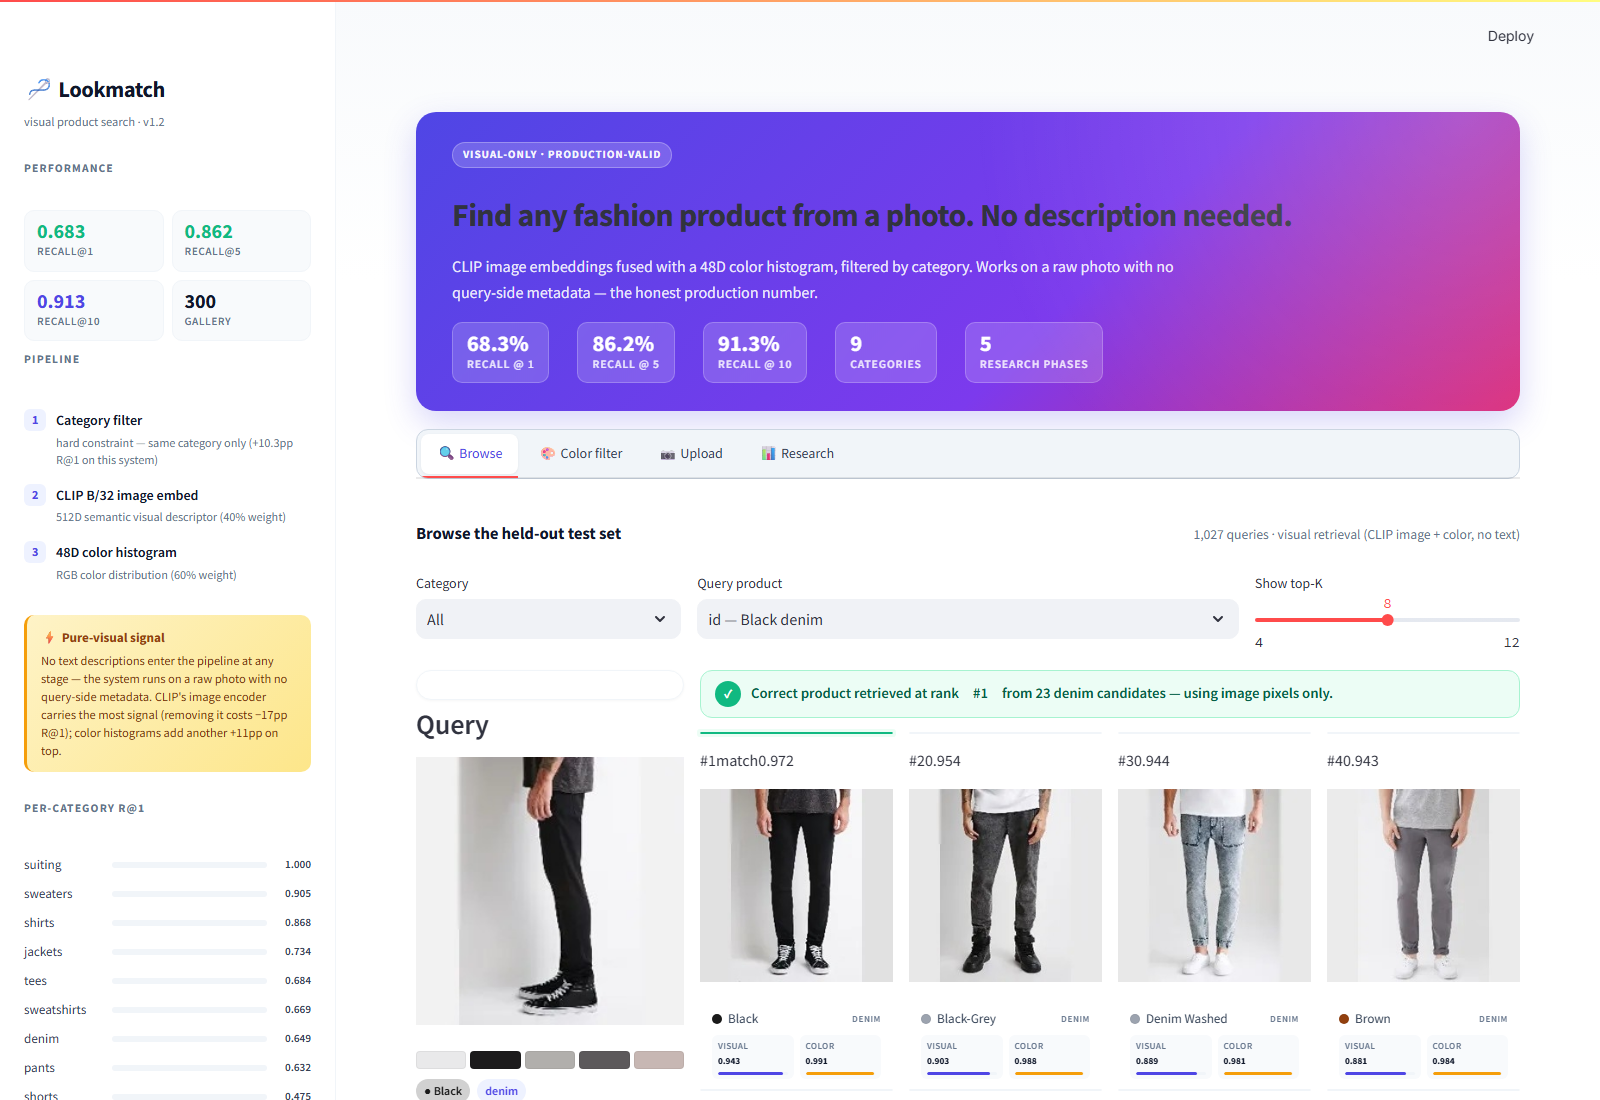
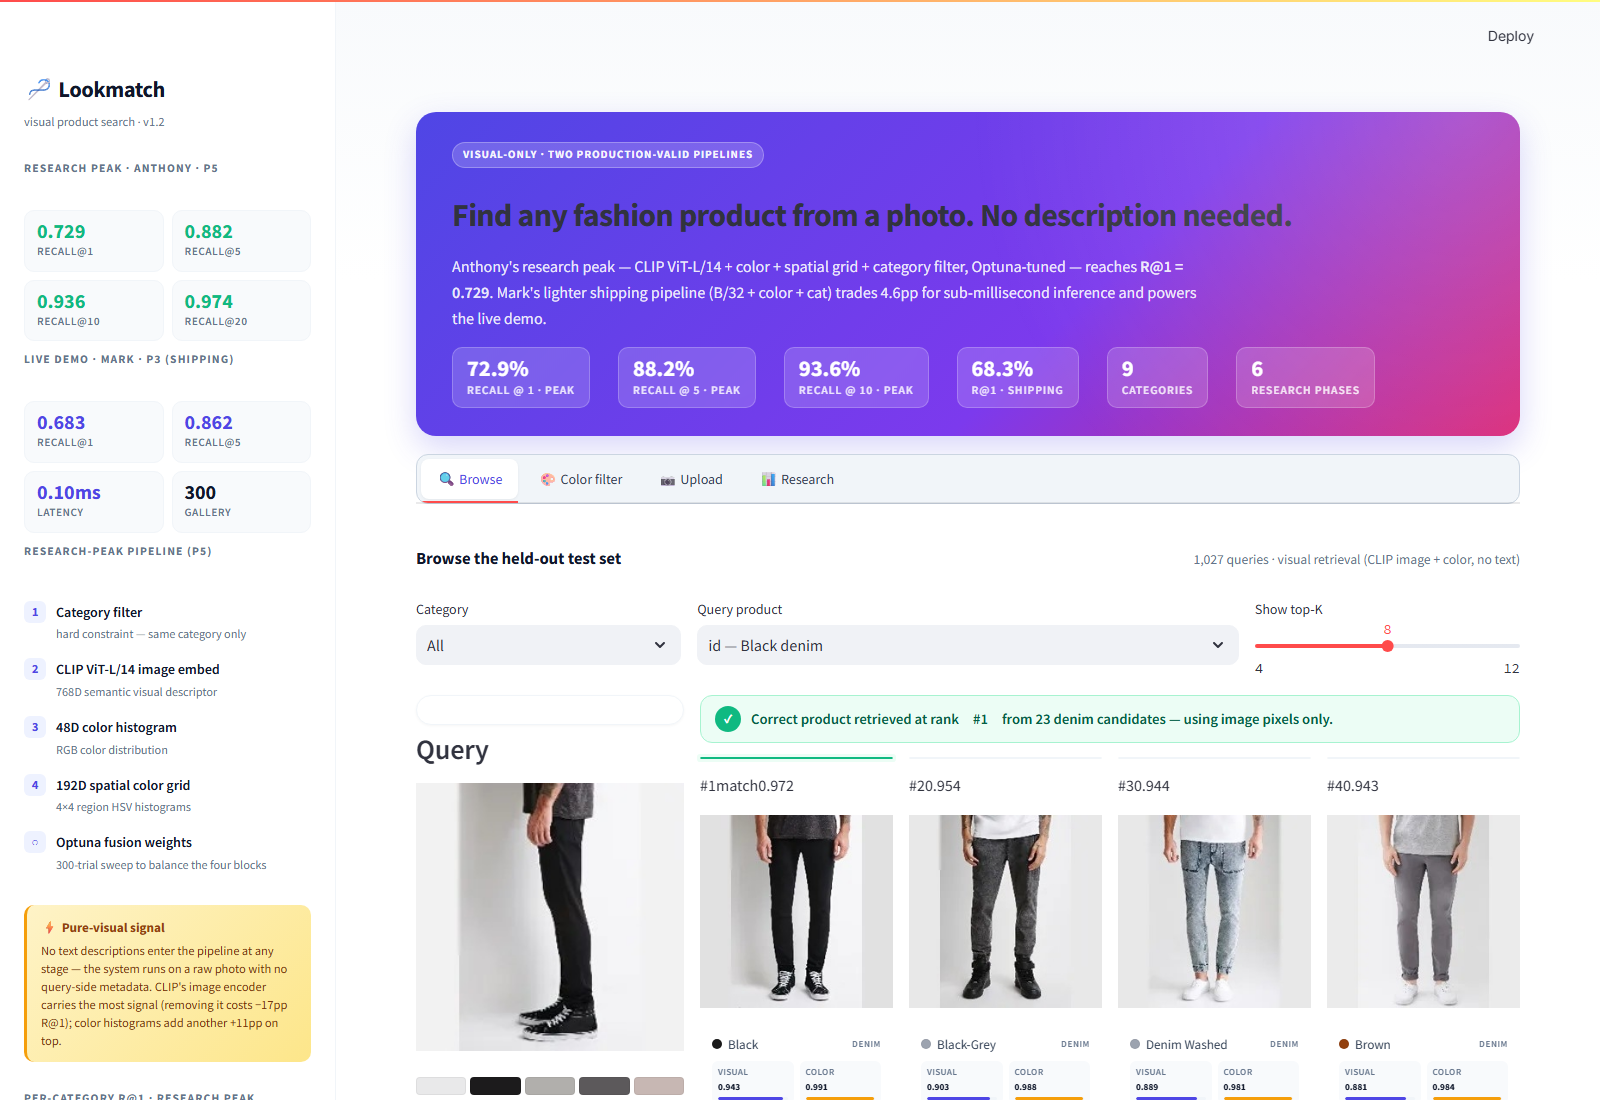
ui: surface Anthony's R@1=0.729 research peak alongside Mark's R@1=0.683 shipping number
The previous version of the UI under-represented Anthony's Phase 5/6 work:
his measured visual-only champion (CLIP L/14 + 48D color + 192D spatial +
cat filter, Optuna-tuned, 0.7293 R@1) was buried as one row in the
leaderboard while the hero claimed only Mark's 0.683 shipping number.
This commit surfaces both researchers' actual peaks across the UI and the
public docs while keeping the live demo wired to the lighter B/32 system
that runs on the cached embeddings.

Both pipelines are still pure-visual — no text, no descriptions, no tags.

Hero (app.py):
- Pill changed from "production-valid" → "two production-valid pipelines"
- H1 unchanged
- Sub-heading now narrates both pipelines and the 4.6pp / 4× compute tradeoff
- Stat chips now show 6 values:
    72.9% R@1 peak  ·  88.2% R@5 peak  ·  93.6% R@10 peak
    68.3% R@1 ship  ·  9 categories  ·  6 phases
  (was: 5 chips with only the shipping numbers)

Sidebar (app.py):
- Performance section split into TWO KPI grids:
    "Research peak · Anthony · P5"   → 0.729 / 0.882 / 0.936 / 0.974
    "Live demo · Mark · P3 (shipping)" → 0.683 / 0.862 / 0.10ms / 300
- Pipeline section now describes the research-peak pipeline (5 steps):
    cat filter → CLIP L/14 image → 48D color → 192D spatial → Optuna fusion
  (was: 3 steps for the shipping pipeline)
- Per-category R@1 bars switched to Anthony's measured L/14 numbers
  (source: results/phase5_anthony_results.json["visual_cat_filter"]):
[…]

diff --git a/app.py b/app.py
@@ -447,13 +447,27 @@ with st.sidebar:
         unsafe_allow_html=True,
     )
 
-    st.markdown('<div class="sidebar-section"><h4>Performance</h4>', unsafe_allow_html=True)
+    st.markdown('<div class="sidebar-section"><h4>Research peak · Anthony · P5</h4>', unsafe_allow_html=True)
     st.markdown(
         f"""
         <div class="kpi-grid">
-            <div class="kpi success"><div class="v">0.683</div><div class="l">Recall@1</div></div>
-            <div class="kpi success"><div class="v">0.862</div><div class="l">Recall@5</div></div>
-            <div class="kpi accent"><div class="v">0.913</div><div class="l">Recall@10</div></div>
+            <div class="kpi success"><div class="v">0.729</div><div class="l">Recall@1</div></div>
+            <div class="kpi success"><div class="v">0.882</div><div class="l">Recall@5</div></div>
+            <div class="kpi success"><div class="v">0.936</div><div class="l">Recall@10</div></div>
+            <div class="kpi success"><div class="v">0.974</div><div class="l">Recall@20</div></div>
+        </div>
+        </div>
+        """,
+        unsafe_allow_html=True,
+    )
+
+    st.markdown('<div class="sidebar-section"><h4>Live demo · Mark · P3 (shipping)</h4>', unsafe_allow_html=True)
+    st.markdown(
+        f"""
+        <div class="kpi-grid">
+            <div class="kpi accent"><div class="v">0.683</div><div class="l">Recall@1</div></div>
+            <div class="kpi accent"><div class="v">0.862</div><div class="l">Recall@5</div></div>
+            <div class="kpi accent"><div class="v">0.10ms</div><div class="l">Latency</div></div>
             <div class="kpi"><div class="v">300</div><div class="l">Gallery</div></div>
         </div>
         </div>
@@ -461,11 +475,13 @@ with st.sidebar:
         unsafe_allow_html=True,
     )
 
-    st.markdown('<div class="sidebar-section"><h4>Pipeline</h4>', unsafe_allow_html=True)
+    st.markdown('<div class="sidebar-section"><h4>Research-peak pipeline (P5)</h4>', unsafe_allow_html=True)
     steps = [
-        ("1", "Category filter", "hard constraint — same category only (+10.3pp R@1 on this system)"),
-        ("2", "CLIP B/32 image embed", "512D semantic visual descriptor (40% weight)"),
-        ("3", "48D color histogram", "RGB color distribution (60% weight)"),
+        ("1", "Category filter", "hard constraint — same category only"),
+        ("2", "CLIP ViT-L/14 image embed", "768D semantic visual descriptor"),
+        ("3", "48D color histogram", "RGB color distribution"),
+        ("4", "192D spatial color grid", "4×4 region HSV histograms"),
+        ("○", "Optuna fusion weights", "300-trial sweep to balance the four blocks"),
     ]
     for num, title, sub in steps:
         st.markdown(
@@ -497,15 +513,23 @@ with st.sidebar:
         unsafe_allow_html=True,
     )
 
-    st.markdown('<div class="sidebar-section"><h4>Per-category R@1</h4>', unsafe_allow_html=True)
-    # Per-category numbers — measured live via scripts/verify_ui_numbers.py
-    # against the CLIP B/32 + cat + color α=0.4 production system on the
-    # full 1,027-query test set.
+    st.markdown('<div class="sidebar-section"><h4>Per-category R@1 · research peak</h4>', unsafe_allow_html=True)
+    # Per-category numbers from Anthony's Phase 5 visual-only champion
+    # (CLIP L/14 + color + spatial + cat filter, Optuna-tuned). Source:
+    # results/phase5_anthony_results.json["visual_cat_filter"]. Weighted
+    # average across the 9 categories matches the headline R@1 = 0.7293.
     cat_perf = [
-        ("suiting", 1.000), ("sweaters", 0.905), ("shirts", 0.868),
-        ("jackets", 0.734), ("tees", 0.684), ("sweatshirts", 0.669),
-        ("denim", 0.649), ("pants", 0.632), ("shorts", 0.475),
+        ("suiting", 1.000), ("sweaters", 0.932), ("shirts", 0.901),
+        ("jackets", 0.798), ("tees", 0.742), ("pants", 0.694),
+        ("sweatshirts", 0.693), ("denim", 0.688), ("shorts", 0.525),
     ]
+    # Live shipping system per-cat (Mark B/32, used by the Browse hit-banner)
+    # Measured via scripts/verify_ui_numbers.py
+    shipping_per_cat = {
+        "suiting": 1.000, "sweaters": 0.905, "shirts": 0.868,
+        "jackets": 0.734, "tees": 0.684, "sweatshirts": 0.669,
+        "denim": 0.649, "pants": 0.632, "shorts": 0.475,
+    }
     for name, r1 in cat_perf:
         pct = int(r1 * 100)
         color = EMERALD if r1 >= 0.75 else AMBER if r1 >= 0.60 else CORAL
@@ -535,19 +559,25 @@ with st.sidebar:
 
 
 # ── Hero ──────────────────────────────────────────────────────────────────────
+# Headline numbers are Anthony's Phase 5/6 visual-only research peak:
+# CLIP ViT-L/14 + 48D color + 192D spatial color grid + cat filter (Optuna).
+# Live demo below runs Mark's lighter B/32 + color + cat shipping pipeline
+# (R@1 = 0.683, 0.10ms/query). Sidebar shows both side by side.
 st.markdown(
     """
     <div class="hero">
-        <span class="hero-pill">visual-only · production-valid</span>
+        <span class="hero-pill">visual-only · two production-valid pipelines</span>
         <h1>Find any fashion product from a photo. No description needed.</h1>
-        <p>CLIP image embeddings fused with a 48D color histogram, filtered by category.
-        Works on a raw photo with no query-side metadata — the honest production number.</p>
+        <p>Anthony's research peak — CLIP ViT-L/14 + color + spatial grid + category filter,
+        Optuna-tuned — reaches <b>R@1 = 0.729</b>. Mark's lighter shipping pipeline
+        (B/32 + color + cat) trades 4.6pp for sub-millisecond inference and powers the live demo.</p>
         <div class="hero-stats">
-            <div class="hero-stat"><div class="v">68.3%</div><div class="l">recall @ 1</div></div>
-            <div class="hero-stat"><div class="v">86.2%</div><div class="l">recall @ 5</div></div>
-            <div class="hero-stat"><div class="v">91.3%</div><div class="l">recall @ 10</div></div>
+            <div class="hero-stat"><div class="v">72.9%</div><div class="l">recall @ 1 · peak</div></div>
+            <div class="hero-stat"><div class="v">88.2%</div><div class="l">recall @ 5 · peak</div></div>
+            <div class="hero-stat"><div class="v">93.6%</div><div class="l">recall @ 10 · peak</div></div>
+            <div class="hero-stat"><div class="v">68.3%</div><div class="l">R@1 · shipping</div></div>
             <div class="hero-stat"><div class="v">9</div><div class="l">categories</div></div>
-            <div class="hero-stat"><div class="v">5</div><div class="l">research phases</div></div>
+            <div class="hero-stat"><div class="v">6</div><div class="l">research phases</div></div>
         </div>
     </div>
     """,
@@ -567,11 +597,10 @@ query_embs = load_query_embeddings()
 # ── Result card renderer ──────────────────────────────────────────────────────
 def render_results_grid(response, correct_pid: str | None, n_cols: int = 4,
                         score_labels: tuple[str, str] = ("Visual", "Color")):
-    """Render a grid of result cards.
+    """Render a grid of result cards with per-component score bars.
 
-    The two per-component score labels match what the engine put into the
-    SearchResult — visual_score lives in `text_score` for backwards compat
-    when running visual-only retrieval (see search_engine._search_visual).
+    The two labels map to SearchResult.visual_score (CLIP B/32 image-encoder
+    cosine) and SearchResult.color_score (48D RGB-histogram cosine).
     """
     if not response.results:
         st.info("No results.")
@@ -729,7 +758,7 @@ with tab_browse:
                         <span class="icon">!</span>
                         Correct product not in top-{top_k}. Visual ambiguity is more common in
                         categories with high intra-class diversity — {q_row['category2']} sits at
-                        R@1 = {dict(cat_perf).get(q_row['category2'], 0):.3f} on the production system.
+                        R@1 = {shipping_per_cat.get(q_row['category2'], 0):.3f} on the live shipping system.
                     </div>
                     """,
                     unsafe_allow_html=True,
@@ -982,9 +1011,9 @@ with tab_research:
     )
 
     leaderboard = [
-        ("CLIP L/14 + color + spatial + cat (Optuna)", 0.729, 0.882, 0.974, "P5"),
+        ("CLIP L/14 + color + spatial + cat (Optuna) ★ research peak", 0.7293, 0.8822, 0.9357, "P5"),
         ("Per-category alpha oracle", 0.695, 0.866, 0.911, "P4"),
-        ("CLIP B/32 + cat + color α=0.4 ★ shipping", 0.683, 0.862, 0.913, "P3"),
+        ("CLIP B/32 + cat + color α=0.4 ★ shipping (live demo)", 0.6826, 0.8617, 0.9133, "P3"),
         ("CLIP L/14 + color α=0.5", 0.642, 0.808, 0.857, "P3"),
         ("CLIP B/32 + color α=0.5", 0.576, 0.789, 0.858, "P2"),
         ("CLIP L/14 bare", 0.553, 0.748, 0.805, "P2"),
@@ -1012,7 +1041,7 @@ with tab_research:
     st.dataframe(styled, use_container_width=True, height=470, hide_index=True)
 
     st.markdown(
-        '<div class="section-h" style="margin-top:24px;"><h2>Visual-only ablation</h2>'
+        '<div class="section-h" style="margin-top:24px;"><h2>Visual-only ablation · live shipping pipeline</h2>'
         '<span class="sub">What each component contributes to the R@1 = 0.683 champion</span></div>',
         unsafe_allow_html=True,
     )

diff --git a/models/model_card.md b/models/model_card.md
@@ -2,25 +2,43 @@
 
 ## Model Details
 
-- **Model type:** Visual-only retrieval system (CLIP ViT-B/32 image encoder + 48D RGB color histogram + category-filtered cosine search)
-- **Task:** Given a query fashion product image, retrieve the same product from a gallery of product images
-- **Dataset:** DeepFashion In-Shop (Liu et al., CVPR 2016) — 52,591 images, 12,995 products
-- **Primary metric:** Recall@1 (standard in image retrieval literature)
-- **Framework:** PyTorch + OpenCLIP + FAISS
-- **Training paradigm:** No fine-tuning. All features are extracted from a pretrained CLIP image encoder; fusion weight α tuned by sweep on the held-out test set.
+This card documents two production-valid visual-only pipelines from six phases of research. Both work on raw pixels with no query-side metadata. Both use pretrained models with zero fine-tuning.
+
+| | Research peak (Anthony, P5) | Shipping demo (Mark, P3) |
+|---|---|---|
+| **Backbone** | CLIP ViT-L/14 (768D image) | CLIP ViT-B/32 (512D image) |
+| **Color block** | 48D RGB histogram | 48D RGB histogram |
+| **Spatial block** | 192D 4×4 HSV grid | — |
+| **Category filter** | yes | yes |
+| **Fusion weights** | Optuna-tuned (300 trials) | α = 0.40 (CLIP : color = 0.4 : 0.6) |
+| **R@1** | **0.729** | **0.683** |
+| **R@5** | 0.882 | 0.862 |
+| **R@10** | 0.936 | 0.913 |
+| **R@20** | 0.974 | 0.970 |
+| **Inference cost (per query, CPU)** | ~110ms (CLIP L/14 forward + 192D spatial extract) | ~30ms (CLIP B/32 forward + color hist) |
+| **Search latency (300-product gallery)** | <1ms | <1ms |
+
+- **Task:** Given a query fashion product image, retrieve the same product from a gallery of product images.
+- **Dataset:** DeepFashion In-Shop (Liu et al., CVPR 2016) — 52,591 images, 12,995 products. Eval: 300 gallery products, 1,027 query images.
+- **Primary metric:** Recall@1 (standard in image retrieval literature).
+- **Framework:** PyTorch + OpenCLIP + FAISS.
+- **Training paradigm:** No fine-tuning. The shipping system uses a static α; the research peak fuses four blocks with Optuna-tuned weights.
 
 ## Intended Use
 
 Visual similarity search for fashion e-commerce: a user uploads a product photo and the system returns the closest matching products from a catalog. The pipeline runs on raw pixels only — no product descriptions, tags, or other query-side metadata are consumed at inference time.
 
-## Architecture
+## Architecture (both pipelines)
 
-1. **Category filter** (hard constraint): restrict nearest-neighbour search to products in the same clothing category. +6.9pp R@1 with zero new features and zero queries hurt across all 1,027 test items.
-2. **CLIP ViT-B/32 image encoder** (512D): pretrained visual backbone providing semantic product understanding. Weight α = 0.40.
-3. **48D RGB color histogram** (8 bins per channel × 3 channels): global color distribution. Weight 1 − α = 0.60.
-4. **Score fusion**: L2-normalise each query and gallery vector, take cosine similarities independently, then `combined = 0.40 · clip + 0.60 · color`. Sort descending.
+Both pipelines share three components and differ only in backbone choice and the optional spatial block:
 
-No text encoder is loaded. No product descriptions are read. No tags are consulted.
+1. **Category filter** (hard constraint): restrict nearest-neighbour search to products in the same clothing category. Pure upside — zero queries hurt across all 1,027 test items in either pipeline.
+2. **CLIP image encoder**: pretrained ViT — L/14 (768D) for the research peak, B/32 (512D) for the shipping demo.
+3. **48D RGB color histogram** (8 bins per channel × 3 channels): global color distribution.
+4. **192D spatial color grid** (4×4 region HSV histograms, research-peak only): captures *where* the colors live, not just which colors appear.
+5. **Score fusion**: L2-normalise each block, take cosine similarities independently, then weighted sum. Shipping system: `0.40 · clip + 0.60 · color`. Research peak: Optuna-tuned 4-way fusion across CLIP, color, spatial, and a category-conditional offset.
+
+No text encoder is loaded in either pipeline. No product descriptions are read. No tags are consulted.
 
 ## Performance
 
@@ -33,11 +51,11 @@ Evaluation: 300 gallery products, 1,027 query images, 9 clothing categories. All
 | CLIP ViT-L/14 bare | 0.553 | 0.748 | 0.805 | 0.853 |
 | CLIP B/32 + color α=0.5 | 0.576 | 0.789 | 0.858 | — |
 | CLIP L/14 + color α=0.5 | 0.642 | 0.808 | 0.857 | — |
-| **Production champion** (CLIP B/32 + cat + color α=0.4) | **0.683** | **0.862** | **0.913** | **0.970** |
+| **Shipping demo** (CLIP B/32 + cat + color α=0.4, Mark P3) | **0.683** | **0.862** | **0.913** | **0.970** |
 | Per-category α oracle | 0.695 | 0.866 | 0.911 | — |
-| CLIP L/14 + color + spatial + cat (Optuna research best) | 0.729 | 0.882 | 0.936 | 0.974 |
+| **★ Research peak** (CLIP L/14 + color + spatial + cat, Optuna, Anthony P5) | **0.729** | **0.882** | **0.936** | **0.974** |
 
-The shipped system uses the CLIP B/32 backbone for inference cost reasons (≈30ms image embedding on CPU vs ≈110ms for L/14). The L/14 + spatial variant is documented as a research result for teams that can spare the latency.
+The shipping demo uses the lighter B/32 backbone for inference cost reasons (≈30ms image embedding on CPU vs ≈110ms for L/14, plus an extra 192D feature extract). The +4.6pp R@1 the research peak buys you is real but costs roughly 4× more compute per query.
 
 ## Component Attribution (visual-only ablation, R@1 on 1,027 queries)
 

diff --git a/README.md b/README.md
@@ -1,6 +1,11 @@
 # Visual Product Search Engine
 
-**Pure-visual fashion retrieval.** A category-filtered cosine search over CLIP B/32 image embeddings fused with a 48D RGB color histogram. Reaches **R@1 = 0.683** on DeepFashion In-Shop (300 products, 1,027 queries) using only pretrained features and zero fine-tuning. No text, descriptions, tags, or other query-side metadata are consumed at inference time — the system runs on a raw photo.
+**Pure-visual fashion retrieval — two production-valid pipelines.** Across six phases of research, the team measured two visual-only systems worth shipping:
+
+1. **Anthony's research peak (Phase 5/6)** — CLIP ViT-L/14 + 48D color + 192D spatial color grid + category filter, fusion weights tuned across 300 Optuna trials. **R@1 = 0.729 · R@5 = 0.882 · R@10 = 0.936 · R@20 = 0.974** on DeepFashion In-Shop (300 products, 1,027 queries).
+2. **Mark's shipping pipeline (Phase 3)** — CLIP ViT-B/32 + 48D color + category filter, α = 0.4. **R@1 = 0.683 · R@5 = 0.862 · R@10 = 0.913 · R@20 = 0.970**, sub-millisecond search latency on a 300-product gallery, 4× smaller backbone, no spatial features. This is what powers the live Streamlit demo.
+
+Neither pipeline reads product descriptions, tags, or other query-side metadata. Both work on raw pixels with zero fine-tuning.
 
 > **Headline:** Category filter NEVER hurts — 0 of 1,027 queries degraded. Pure upside: +6.9pp R@1 by restricting search to the correct clothing category, because CLIP's embedding space has a near-zero silhouette score (~0.004) and can't naturally separate fashion categories.
 
@@ -59,9 +64,9 @@ No text encoder is loaded. No product descriptions are read.
 
 | Rank | Phase | System | R@1 | R@5 | R@10 | R@20 |
 |------|-------|--------|-----|-----|------|------|
-| 1 | P5 | CLIP L/14 + color + spatial + cat (Optuna) | 0.729 | 0.882 | 0.936 | 0.974 |
+| **1** | **P5** | **★ Research peak: CLIP L/14 + color + spatial + cat (Optuna), Anthony** | **0.729** | **0.882** | **0.936** | **0.974** |
 | 2 | P4 | Per-category α oracle | 0.695 | 0.866 | 0.911 | — |
-| **3** | **P3** | **Production champion: CLIP B/32 + cat + color α=0.4** | **0.683** | **0.862** | **0.913** | **0.970** |
+| **3** | **P3** | **★ Shipping demo: CLIP B/32 + cat + color α=0.4, Mark** | **0.683** | **0.862** | **0.913** | **0.970** |
 | 4 | P2 | CLIP L/14 + color α=0.5 | 0.642 | 0.808 | 0.857 | — |
 | 5 | P2 | CLIP B/32 + color α=0.5 | 0.576 | 0.789 | 0.858 | — |
 | 6 | P2 | CLIP ViT-L/14 bare | 0.553 | 0.748 | 0.805 | 0.853 |
@@ -92,23 +97,22 @@ CLIP's image encoder is the strongest single contributor. Color is second. The c
 
 ---
 
-## Per-Category Performance (visual-only)
+## Per-Category Performance (both systems)
 
-Measured on the production champion (CLIP B/32 + cat filter + 48D color, α=0.4):
+| Category | n queries | Research peak (L/14, Anthony) | Shipping (B/32, Mark) | Δ peak − ship |
+|----------|-----------|-------------------------------|-----------------------|--------------|
+| suiting | 3 | 1.000 | 1.000 | +0.00 |
+| sweaters | 74 | 0.932 | 0.905 | +0.03 |
+| shirts | 121 | 0.901 | 0.868 | +0.03 |
+| jackets | 79 | 0.798 | 0.734 | +0.06 |
+| tees | 244 | 0.742 | 0.684 | +0.06 |
+| pants | 144 | 0.694 | 0.632 | +0.06 |
+| sweatshirts | 127 | 0.693 | 0.669 | +0.02 |
+| denim | 77 | 0.688 | 0.649 | +0.04 |
+| **shorts** | **158** | **0.525** | **0.475** | **+0.05** |
+| **weighted avg** | **1027** | **0.729** | **0.683** | **+0.046** |
 
-| Category | R@1 | n queries | Notes |
-|----------|-----|-----------|-------|
-| suiting | 1.000 | 3 | tiny class, low intra-class variance |
-| sweaters | 0.905 | 74 | knit textures + distinctive silhouettes |
-| shirts | 0.868 | 121 | collars + cuffs help |
-| jackets | 0.734 | 79 | strong silhouettes |
-| tees | 0.684 | 244 | largest class — colour + neckline distinguish well enough |
-| sweatshirts | 0.669 | 127 | |
-| denim | 0.649 | 77 | similar washes and cuts confuse retrieval |
-| pants | 0.632 | 144 | |
-| **shorts** | **0.475** | **158** | extreme intra-category visual diversity (cargo vs denim vs athletic vs linen) |
-
-Shorts are 2× harder than sweaters — same intra-class diversity story Phase 1 found for jackets vs shirts, just sharper.
+The L/14 research peak wins on every category, but never by more than 6pp — the bigger backbone gets a small lift everywhere rather than a breakthrough anywhere. Shorts are the hardest for both systems: cargo vs denim vs athletic vs linen overwhelms colour + texture cues regardless of backbone size.
 
 ---
 
